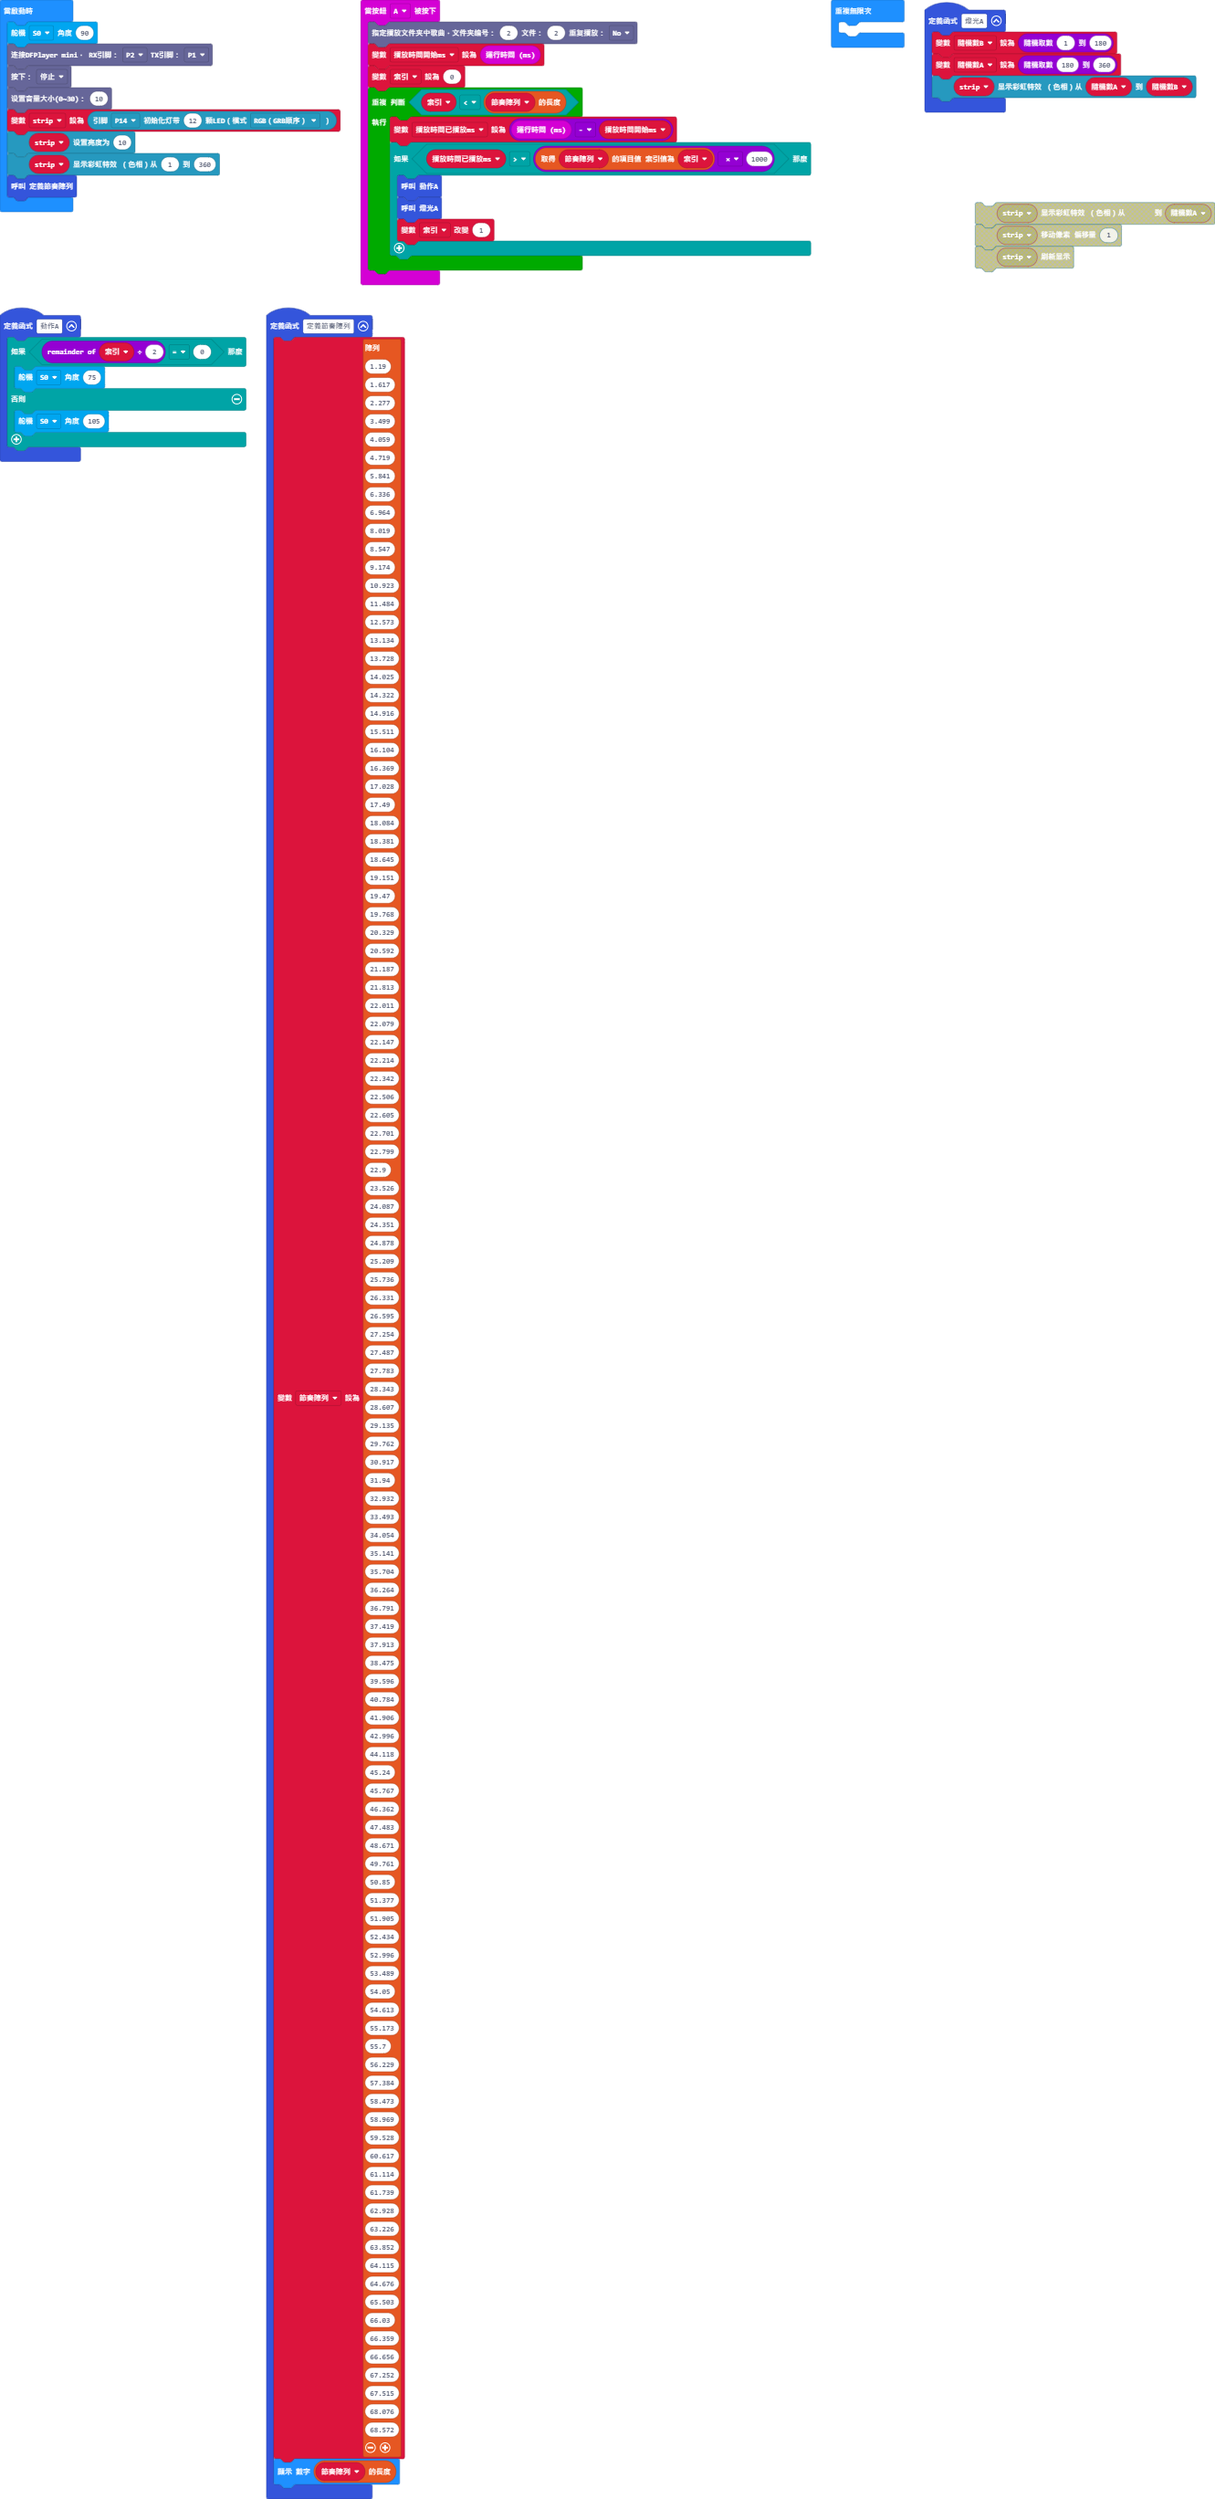
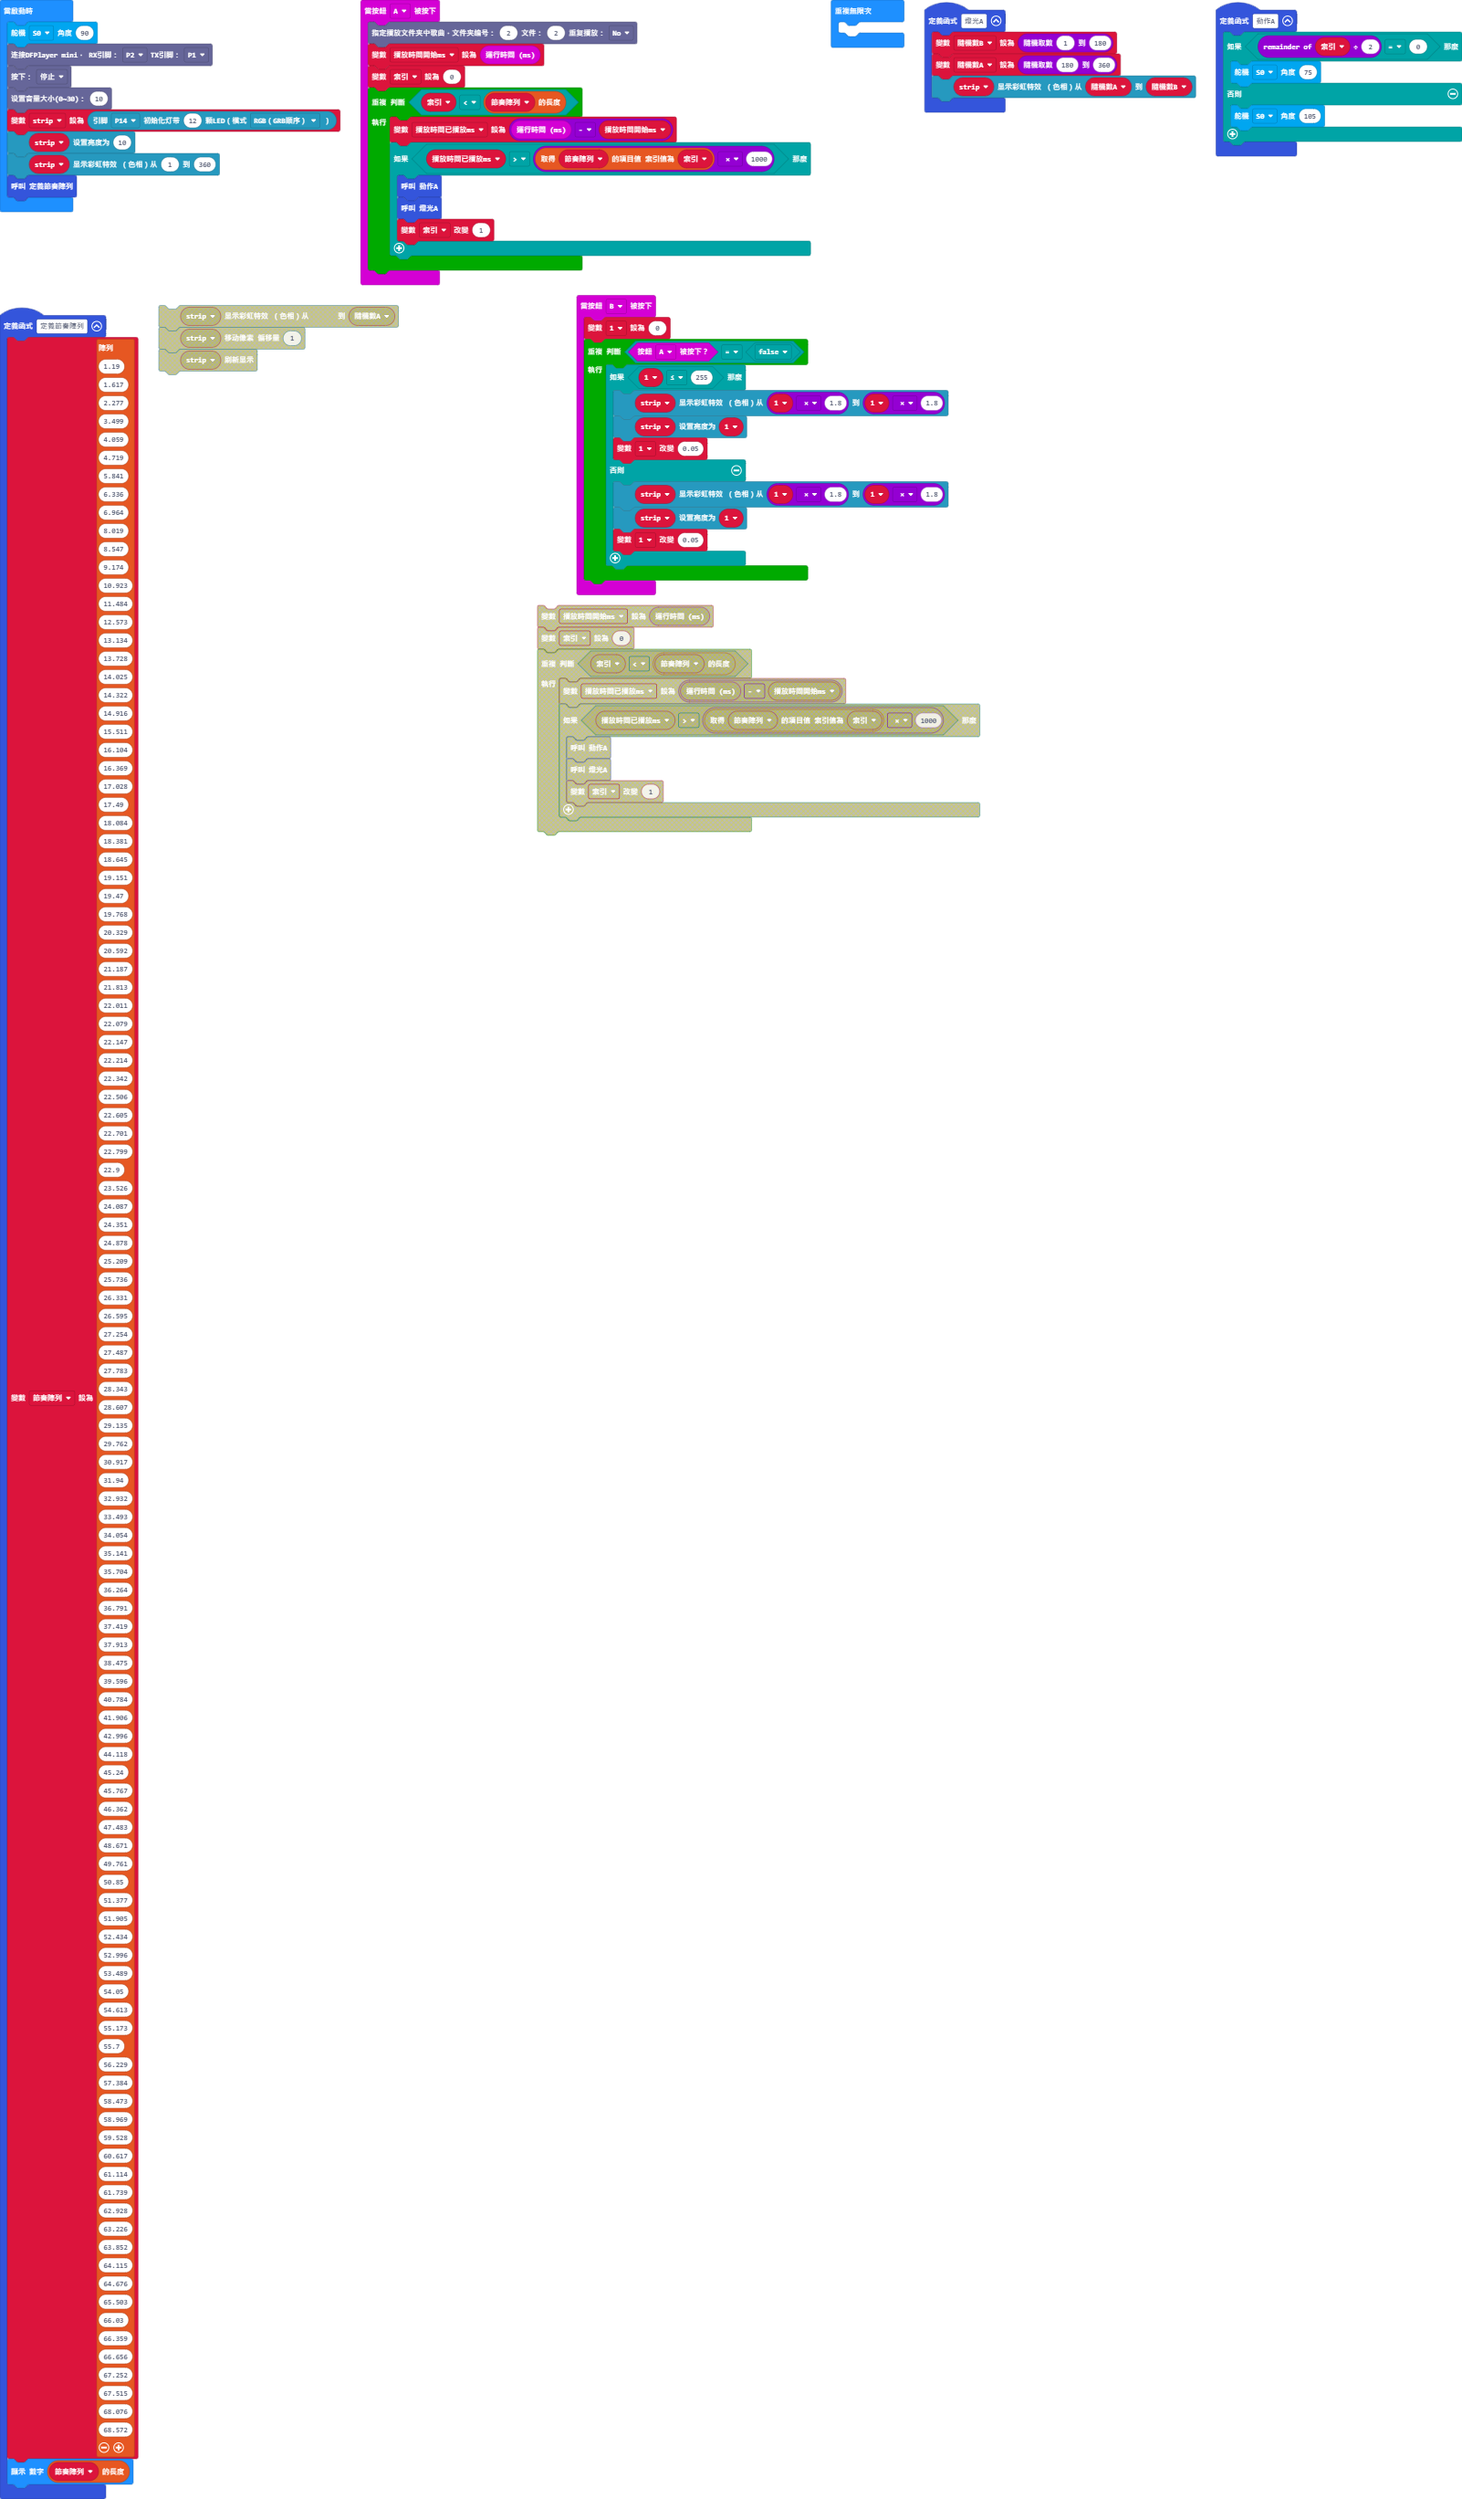
更新 pxt.json, main.blocks, main.ts, main.py

Changed region(s): [[0.0, 0.0, 1.0, 1.0], [0.0, 0.0, 0.1848, 0.0932]]

diff --git a/main.ts b/main.ts
@@ -142,6 +142,20 @@ function 定義節奏陣列 () {
     ]
     basic.showNumber(節奏陣列.length)
 }
+input.onButtonPressed(Button.B, function () {
+    _1 = 0
+    while (input.buttonIsPressed(Button.A) == false) {
+        if (_1 <= 255) {
+            strip.showRainbow(_1 * 1.8, _1 * 1.8)
+            strip.setBrightness(_1)
+            _1 += 0.05
+        } else {
+            strip.showRainbow(_1 * 1.8, _1 * 1.8)
+            strip.setBrightness(_1)
+            _1 += 0.05
+        }
+    }
+})
 let 隨機數A = 0
 let 隨機數B = 0
 let 播放時間已播放ms = 0
@@ -149,6 +163,7 @@ let 節奏陣列: number[] = []
 let 索引 = 0
 let 播放時間開始ms = 0
 let strip: neopixel.Strip = null
+let _1 = 0
 KSB048.Servo(KSB048.ServoNum.S0, 90)
 dfplayermini.connect(SerialPin.P2, SerialPin.P1)
 dfplayermini.press(dfplayermini.playType.Stop)

diff --git a/main.py b/main.py
@@ -1,0 +1,159 @@
+def on_button_pressed_a():
+    global 播放時間開始ms, 索引, 播放時間已播放ms
+    dfplayermini.play_file_in_folder(2, 2, dfplayermini.isRepeat.NO)
+    播放時間開始ms = input.running_time()
+    索引 = 0
+    while 索引 < len(節奏陣列):
+        播放時間已播放ms = input.running_time() - 播放時間開始ms
+        if 播放時間已播放ms > 節奏陣列[索引] * 1000:
+            動作A()
+            燈光A()
+            索引 += 1
+input.on_button_pressed(Button.A, on_button_pressed_a)
+
+def 燈光A():
+    global 隨機數B, 隨機數A
+    隨機數B = randint(1, 180)
+    隨機數A = randint(180, 360)
+    strip.show_rainbow(隨機數A, 隨機數B)
+def 動作A():
+    if 索引 % 2 == 0:
+        KSB048.servo(KSB048.ServoNum.S0, 75)
+    else:
+        KSB048.servo(KSB048.ServoNum.S0, 105)
+def 定義節奏陣列():
+    global 節奏陣列
+    節奏陣列 = [1.19,
+        1.617,
+        2.277,
+        3.499,
+        4.059,
+        4.719,
+        5.841,
+        6.336,
+        6.964,
+        8.019,
+        8.547,
+        9.174,
+        10.923,
+        11.484,
+        12.573,
+        13.134,
+        13.728,
+        14.025,
+        14.322,
+        14.916,
+        15.511,
+        16.104,
+        16.369,
+        17.028,
+        17.49,
+        18.084,
+        18.381,
+        18.645,
+        19.151,
+        19.47,
+        19.768,
+        20.329,
+        20.592,
+        21.187,
+        21.813,
+        22.011,
+        22.079,
+        22.147,
+        22.214,
+        22.342,
+        22.506,
+        22.605,
+        22.701,
+        22.799,
+        22.9,
+        23.526,
+        24.087,
+        24.351,
+        24.878,
+        25.209,
+        25.736,
+        26.331,
+        26.595,
+        27.254,
+        27.487,
+        27.783,
+        28.343,
+        28.607,
+        29.135,
+        29.762,
+        30.917,
+        31.94,
+        32.932,
+        33.493,
+        34.054,
+        35.141,
+        35.704,
+        36.264,
+        36.791,
+        37.419,
+        37.913,
+        38.475,
+        39.596,
+        40.784,
+        41.906,
+        42.996,
+        44.118,
+        45.24,
+        45.767,
+        46.362,
+        47.483,
+        48.671,
+        49.761,
+        50.85,
+        51.377,
+        51.905,
+        52.434,
+        52.996,
+        53.489,
+        54.05,
+        54.613,
+        55.173,
+        55.7,
+        56.229,
+        57.384,
+        58.473,
+        58.969,
+        59.528,
+        60.617,
+        61.114,
+        61.739,
+        62.928,
+        63.226,
+        63.852,
+        64.115,
+        64.676,
+        65.503,
+        66.03,
+        66.359,
+        66.656,
+        67.252,
+        67.515,
+        68.076,
+        68.572]
+    basic.show_number(len(節奏陣列))
+隨機數A = 0
+隨機數B = 0
+播放時間已播放ms = 0
+節奏陣列: List[number] = []
+索引 = 0
+播放時間開始ms = 0
+strip: neopixel.Strip = None
+KSB048.servo(KSB048.ServoNum.S0, 90)
+dfplayermini.connect(SerialPin.P2, SerialPin.P1)
+dfplayermini.press(dfplayermini.playType.STOP)
+dfplayermini.set_volume(10)
+strip = neopixel.create(DigitalPin.P14, 12, NeoPixelMode.RGB)
+strip.set_brightness(10)
+strip.show_rainbow(1, 360)
+定義節奏陣列()
+
+def on_forever():
+    pass
+basic.forever(on_forever)
